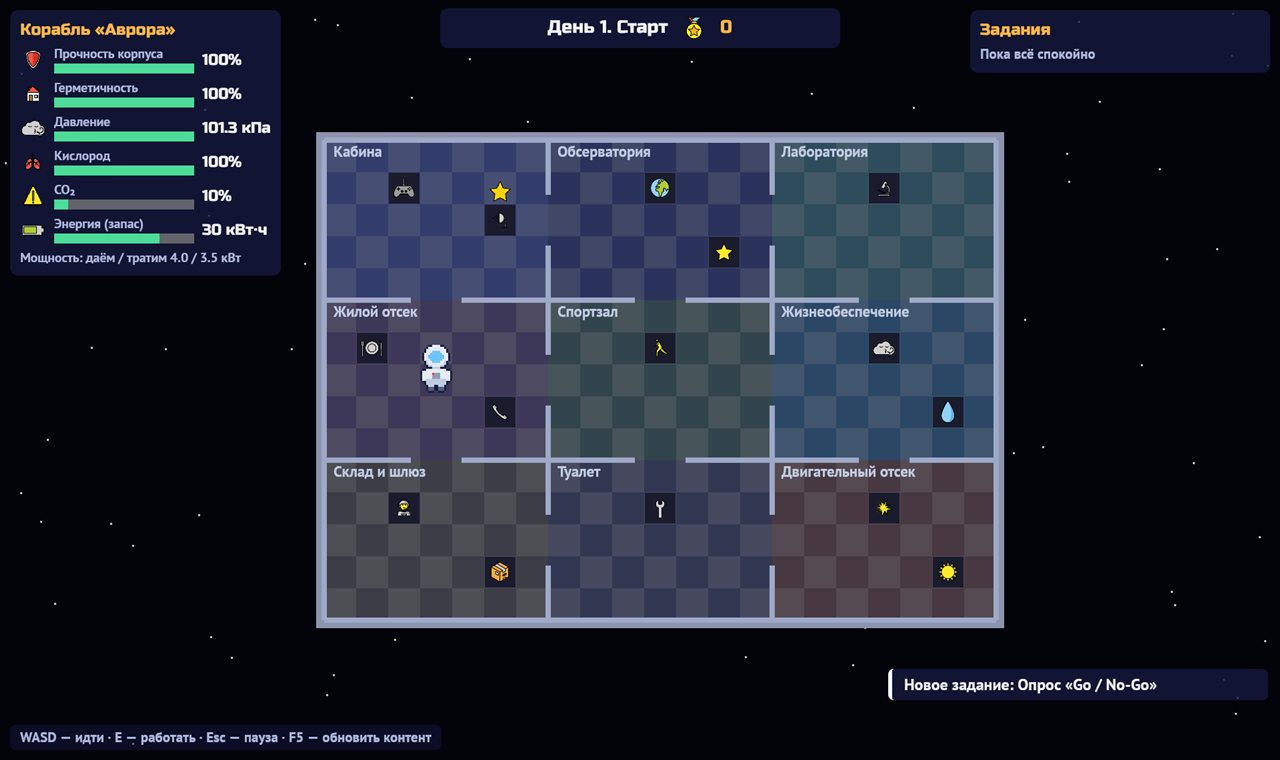
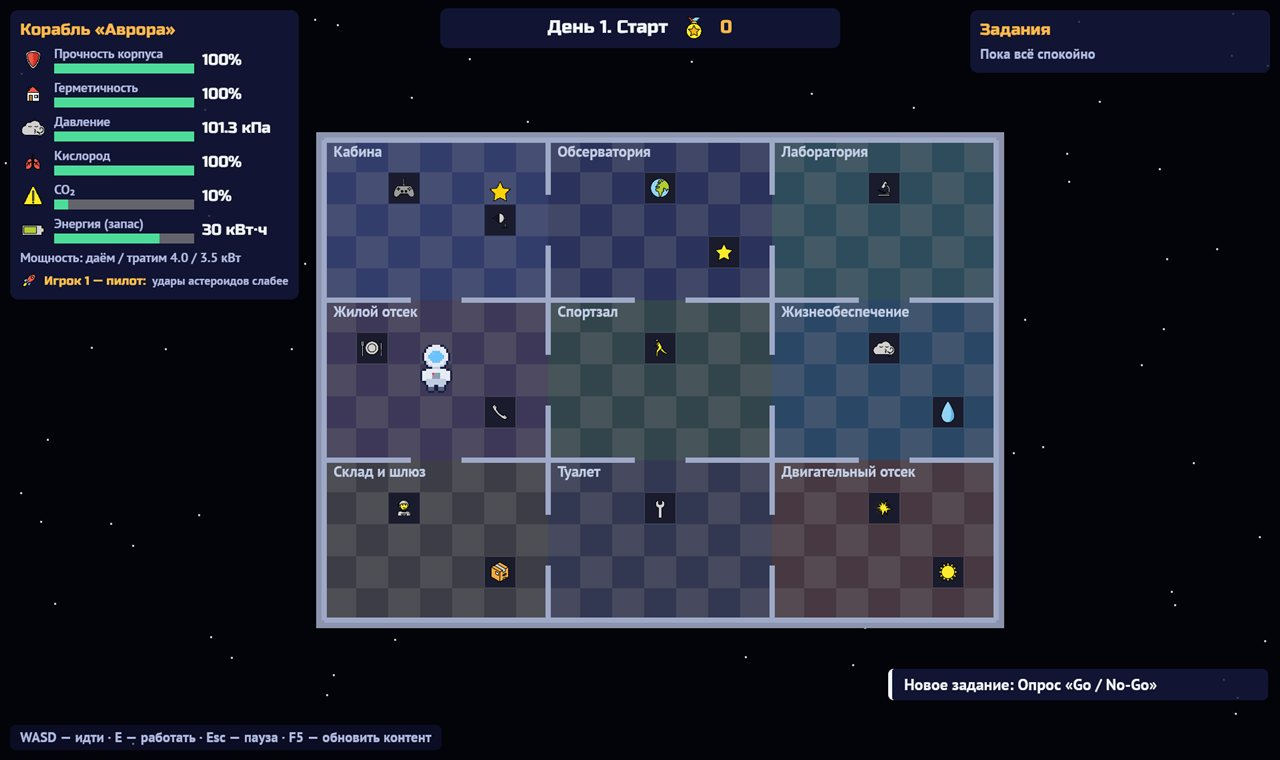
Part A: crew roles with team bonuses, smileys, badge above CAPCOM box
- Roles are given by seat (pilot, engineer, researcher, life support);
  the ship panel shows each player's role and bonus (A8)
- Two smileys added to the quick phrases, keys 1-8 (A9)
- Network badge and phrases no longer cover the CAPCOM message

Changed region(s): [[0.0, 0.0, 0.25, 0.3934]]

diff --git a/crates/game/src/net.rs b/crates/game/src/net.rs
@@ -73,13 +73,16 @@ impl Room {
 }
 
 /// Quick phrases (A9): icon, Russian, English.
-pub const PHRASES: [(&str, &str, &str); 6] = [
+pub const PHRASES: [(&str, &str, &str); 8] = [
     ("thumbs", "Отлично!", "Great!"),
     ("sos", "Помоги!", "Help!"),
     ("walk", "Иду!", "On my way!"),
     ("check", "Готово!", "Done!"),
     ("hourglass", "Подожди!", "Wait!"),
     ("battery", "Нужна энергия!", "Need power!"),
+    // smileys
+    ("f_happy", "Ура!", "Yay!"),
+    ("f_sad", "Ой…", "Oops…"),
 ];
 
 /// What a guest asks the host to do, numbered and re-sent until acknowledged.
@@ -820,7 +823,7 @@ fn find_hosts(time: Res<Time>, mut lobby: ResMut<Lobby>, net: Res<Net>) {
     }
 }
 
-// ---- quick phrases (A9): keys 1–6 or the buttons under the chat
+// ---- quick phrases and smileys (A9): keys 1–8 or the buttons under the chat
 
 #[allow(clippy::too_many_arguments)]
 fn say_actions(mut acts: EventReader<Act>, keys: Res<ButtonInput<KeyCode>>, mut net: ResMut<Net>, state: Res<bevy::state::state::State<AppState>>, busy: Res<UiBusy>, time: Res<Time>, mut wait: Local<f32>) {
@@ -828,7 +831,7 @@ fn say_actions(mut acts: EventReader<Act>, keys: Res<ButtonInput<KeyCode>>, mut 
     let mut said = acts.read().filter_map(|Act(a)| if let Action::Say(i) = *a { Some(i) } else { None }).last();
     let in_game = matches!(*state.get(), AppState::Playing | AppState::Ship);
     if net.active() && in_game && !busy.0 {
-        const KEYS: [KeyCode; 6] = [KeyCode::Digit1, KeyCode::Digit2, KeyCode::Digit3, KeyCode::Digit4, KeyCode::Digit5, KeyCode::Digit6];
+        const KEYS: [KeyCode; 8] = [KeyCode::Digit1, KeyCode::Digit2, KeyCode::Digit3, KeyCode::Digit4, KeyCode::Digit5, KeyCode::Digit6, KeyCode::Digit7, KeyCode::Digit8];
         if let Some(i) = KEYS.iter().position(|k| keys.just_pressed(*k)) {
             said = Some(i as u8);
         }
@@ -1110,7 +1113,7 @@ pub fn seat_color(i: u8) -> Color {
 fn spawn_badge(mut commands: Commands) {
     commands
         .spawn((
-            Node { position_type: PositionType::Absolute, left: Val::Px(12.0), bottom: Val::Px(90.0), padding: UiRect::axes(Val::Px(10.0), Val::Px(4.0)), ..default() },
+            Node { position_type: PositionType::Absolute, left: Val::Px(12.0), bottom: Val::Px(112.0), padding: UiRect::axes(Val::Px(10.0), Val::Px(4.0)), ..default() },
             BackgroundColor(Color::srgba(0.05, 0.06, 0.16, 0.85)),
             BorderRadius::all(Val::Px(6.0)),
             GlobalZIndex(40),
@@ -1181,7 +1184,7 @@ fn chat_view(mut commands: Commands, time: Res<Time>, mut net: ResMut<Net>, art:
     let me = net.local_idx().unwrap_or(0);
     commands
         .spawn((
-            Node { position_type: PositionType::Absolute, left: Val::Px(12.0), bottom: Val::Px(124.0), flex_direction: FlexDirection::Column, row_gap: Val::Px(4.0), ..default() },
+            Node { position_type: PositionType::Absolute, left: Val::Px(12.0), bottom: Val::Px(146.0), flex_direction: FlexDirection::Column, row_gap: Val::Px(4.0), ..default() },
             GlobalZIndex(41),
             ChatRoot,
         ))

diff --git a/crates/game/src/ship/mod.rs b/crates/game/src/ship/mod.rs
@@ -154,7 +154,7 @@ fn start_expedition(mut commands: Commands, mut acts: EventReader<Act>, content:
             0 => 1,
             n => n,
         };
-        let mut cfg = ExpeditionConfig::new(crew, level);
+        let mut cfg = ExpeditionConfig::new(crew, level).with_auto_roles();
         if setup.mode == ja_core::Mode::Sandbox {
             cfg.mode = ja_core::PlayMode::Creative;
         }
@@ -608,6 +608,21 @@ fn hud(mut commands: Commands, camp: Res<Camp>, art: Res<Art>, prof: Res<Prof>, 
                 kit::text(b, format!("{} {:.1} / {:.1} кВт", l.pick("Мощность: даём / тратим", "Power: made / used"), s.power_in, s.power_out), &art.body, 13.0, C_MUTED);
             } else {
                 bar(b, &art, "battery", l.pick("Энергия", "Energy"), s.energy / ja_core::ship::ENERGY_CAP, format!("{:.0}%", s.energy / ja_core::ship::ENERGY_CAP * 100.0), col(s.energy / ja_core::ship::ENERGY_CAP * 100.0));
+            }
+            // crew roles: each gives the whole team a small bonus
+            for (i, r) in st.cfg.roles.iter().enumerate().take(st.cfg.players as usize) {
+                let Some(r) = r else { continue };
+                let (icon, ru, en, bru, ben) = match r {
+                    ja_core::Role::Pilot => ("rocket", "пилот", "pilot", "удары астероидов слабее", "asteroid hits are softer"),
+                    ja_core::Role::Engineer => ("wrench", "инженер", "engineer", "больше времени на ремонт", "more time for repairs"),
+                    ja_core::Role::Researcher => ("science", "исследователь", "researcher", "+50% монет в лаборатории", "+50% coins in the lab"),
+                    ja_core::Role::LifeSupport => ("oxygen", "жизнеобеспечение", "life support", "воздух портится медленнее", "air goes bad slower"),
+                };
+                b.spawn(kit::row(6.0)).with_children(|x| {
+                    kit::icon(x, &art, icon, 18.0);
+                    kit::text(x, format!("{} {} — {}:", l.pick("Игрок", "Player"), i + 1, l.pick(ru, en)), &art.head, 12.0, crate::net::seat_color(i as u8));
+                    kit::text(x, l.pick(bru, ben), &art.body, 12.0, C_MUTED);
+                });
             }
         });
         // day + coins

diff --git a/crates/core/src/expedition.rs b/crates/core/src/expedition.rs
@@ -49,7 +49,30 @@ impl ExpeditionConfig {
     pub fn new(players: u8, level: Level) -> Self {
         Self { mode: PlayMode::Survival, level, players: players.clamp(1, 4), roles: [None; 4], seed: crate::rng::Rng::time_seed() }
     }
+    /// Every crew member gets a role in seat order: pilot, engineer, researcher, life support.
+    /// A solo player is the pilot. (A role is a small team bonus, never a limit.)
+    pub fn with_auto_roles(mut self) -> Self {
+        const ORDER: [Role; 4] = [Role::Pilot, Role::Engineer, Role::Researcher, Role::LifeSupport];
+        for i in 0..4 {
+            self.roles[i] = (i < self.players as usize).then_some(ORDER[i]);
+        }
+        self
+    }
     pub fn has_role(&self, r: Role) -> bool {
         self.roles.iter().take(self.players as usize).any(|x| *x == Some(r))
+    }
+}
+
+#[cfg(test)]
+mod tests {
+    use super::*;
+
+    #[test]
+    fn auto_roles_follow_seats() {
+        let c = ExpeditionConfig::new(2, Level::Junior).with_auto_roles();
+        assert_eq!(c.roles, [Some(Role::Pilot), Some(Role::Engineer), None, None]);
+        assert!(c.has_role(Role::Engineer) && !c.has_role(Role::Researcher));
+        let four = ExpeditionConfig::new(4, Level::Advanced).with_auto_roles();
+        assert!(four.has_role(Role::LifeSupport));
     }
 }
